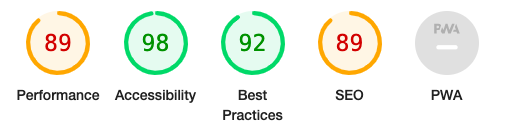
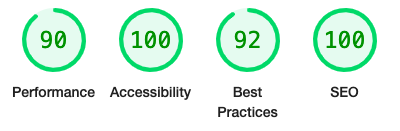
Update lighthouse results

diff --git a/TESTING.md b/TESTING.md
@@ -80,20 +80,36 @@ After testing the other pages the only alert found on each page was in regards t
 
 **Desktop**
 
+Prior to home image compression:
+
 ![Home Lighthouse Desktop](readme/testing/lh-home-desktop.png)
+
+After home image compression:
+
+![Home Lighthouse Desktop](readme/testing/lh-home-desktop-2.png)
 
 **Mobile**
 
+Prior to home image compression:
+
 ![Home Lighthouse Mobile](readme/testing/lh-home-mobile.png)
+
+After home image compression:
+
+![Home Lighthouse Mobile](readme/testing/lh-home-mobile-2.png)
+
+I believe that the majority of performance issues are due to the embedded Google Maps API.
+
+The home images could also benefit from being resized.
 
 ### **Our Tables**
 **Desktop**
 
-![Our Tables Lighthouse Desktop](readme/testing/lh-tables-desktop.png)
+![Our Tables Lighthouse Desktop](readme/testing/lh-table-desktop.png)
 
 **Mobile**
 
-![Our Tables Lighthouse Mobile](readme/testing/lh-tables-mobile.png)
+![Our Tables Lighthouse Mobile](readme/testing/lh-table-mobile.png)
 
 ### **Book Now**
 **Desktop**
